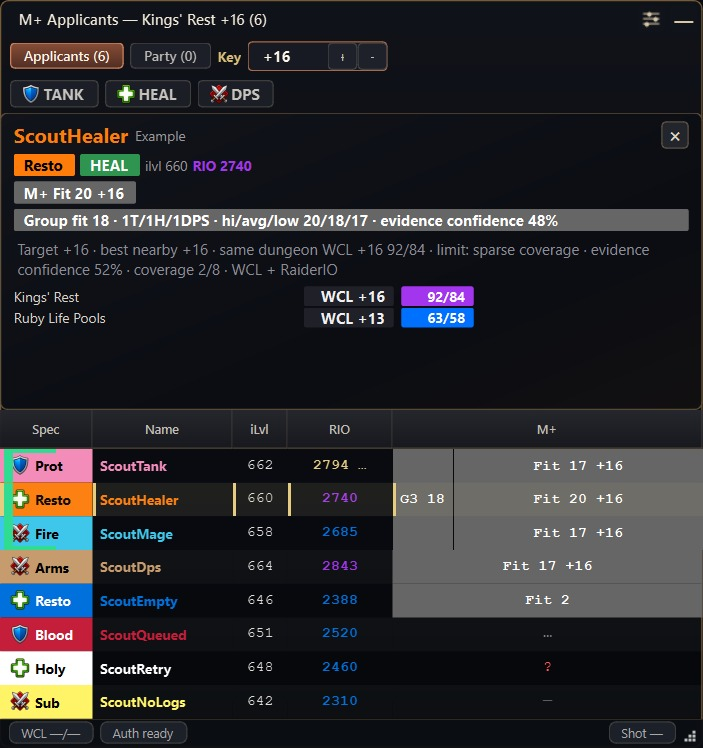
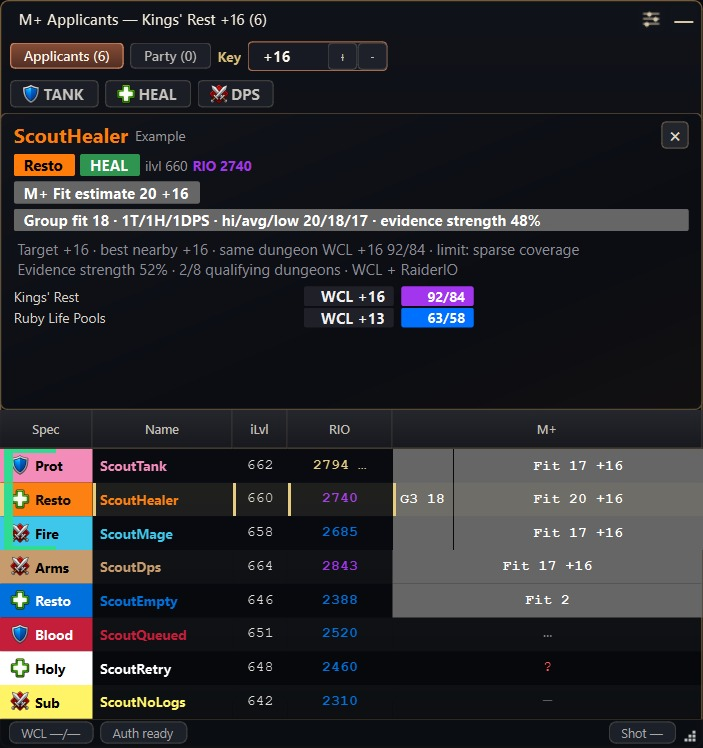
fix: refresh roster evidence and validate keystone providers

diff --git a/tests/test_transport_contract.py b/tests/test_transport_contract.py
@@ -63,6 +63,9 @@ LUA_ROSTER_UNKNOWN_IDENTITY_RECOVERY_CHECK = (
 LUA_ROSTER_INSPECT_REJOIN_CHECK = (
     REPO_ROOT / "tests" / "lua" / "check_roster_inspect_rejoin.lua"
 )
+LUA_ROSTER_ILVL_REFRESH_CHECK = (
+    REPO_ROOT / "tests" / "lua" / "check_roster_ilvl_refresh.lua"
+)
 LUA_LEADER_KEY_REFRESH_CHECK = (
     REPO_ROOT / "tests" / "lua" / "check_leader_keystone_refresh.lua"
 )
@@ -1601,7 +1604,6 @@ def test_leader_keystone_soft_dep_uses_libkeystone_party_protocol():
     )
     events_body = _slice_between(source, "local EVENT_HANDLERS = {", "for event in pairs")
 
-    assert 'pcall(libStub, "LibKeystone", true)' in leader_body
     assert "lib.Register(" in leader_body
     assert 'type(lib.Request) == "function"' in leader_body
     assert "leaderKeystoneLib = nil" in source
@@ -1746,10 +1748,12 @@ def test_libkeystone_callback_registration_reselects_late_external_provider():
     assert cancel_retry_idx < select_idx
 
 
-def test_libkeystone_provider_ownership_in_lua51(pytestconfig):
+@pytest.mark.parametrize("provider_kind", ["table", "function"])
+def test_libkeystone_provider_ownership_in_lua51(pytestconfig, provider_kind):
     output = _run_lua_script(
         pytestconfig,
         LUA_LIBKEYSTONE_PROVIDER_OWNERSHIP_CHECK,
+        provider_kind,
     ).strip()
 
     assert output == "ok libkeystone-provider-ownership"
@@ -2823,7 +2827,7 @@ def test_roster_spec_resolution_requests_inspect_when_spec_is_unknown():
     assert inspect_idx < request_idx < fallback_idx
 
 
-def test_roster_item_level_uses_inspect_cache_for_non_self_units():
+def test_roster_item_level_uses_cache_after_fresh_read_before_requesting_inspect():
     source = _lua_source()
     item_level_body = _slice_between(
         source,
@@ -2858,7 +2862,7 @@ def test_roster_item_level_uses_inspect_cache_for_non_self_units():
         in request_body
     )
     assert "entryCreationKeyState.RosterUnitHasResolvedSpec" not in source
-    assert cache_idx < read_idx < request_idx
+    assert read_idx < cache_idx < request_idx
 
 
 def test_inspect_ready_marks_roster_dirty_after_caching_spec():
@@ -5038,6 +5042,21 @@ def test_roster_member_rejoin_refreshes_cached_payload_identity(pytestconfig, mo
 
     assert (before.spec_id, before.ilvl, before.role) == (256, 704, 1)
     assert (after.spec_id, after.ilvl, after.role) == (258, 799, 2)
+
+
+@pytest.mark.requires_companion
+def test_roster_item_level_refresh_preserves_last_clean_during_unavailable_reads(pytestconfig):
+    output = _run_lua_script(pytestconfig, LUA_ROSTER_ILVL_REFRESH_CHECK)
+    parse_payload = _companion_payload_parser(pytestconfig)
+    members = []
+    for line in output.splitlines():
+        snapshot, error = parse_payload(bytes.fromhex(line))
+        assert error is None
+        assert snapshot is not None
+        members.append(next(member for member in snapshot.roster if member.name == "Friend-Realm"))
+
+    assert [member.ilvl for member in members] == [704, 799, 691, 691, 691, 691, 691, 711]
+    assert all((member.spec_id, member.role) == (63, 2) for member in members)
 
 
 @pytest.mark.requires_companion

diff --git a/CHANGELOG.md b/CHANGELOG.md
@@ -2,6 +2,29 @@
 
 ## Unreleased
 
+## 0.9.14 - 05-Sep-2026 - Clearer key scouting
+
+### Improved
+
+- Paired with ApplicantScout Companion `0.15.0`, with more accurate Mythic+
+  evidence scoring and clearer applicant details while keeping familiar colors.
+- Party item level now uses fresh readable equipment data, retaining the last
+  known value when inspection data is temporarily unavailable.
+
+### Fixed
+
+- Recognize standard LibStub libraries so an external LibKeystone provider is
+  used correctly, including when it loads later.
+- A same-name player from another realm can no longer replace or clear the
+  group leader's key information.
+
+### Notes
+
+- The paired companion also improves first-run setup and preserves applicant
+  state correctly through rapid listing or character changes.
+- APS1 payload compatibility and combat/Mythic+ background-work suppression
+  are unchanged.
+
 ## 0.9.13 - 02-Sep-2026 - Companion security update
 
 ### Improved

diff --git a/README.md b/README.md
@@ -82,6 +82,14 @@ folder name for WoW.
 - Current party/raid roster context after invites or after joining a group.
 - Optional playstyle and Auto Hi controls for in-game quality-of-life.
 
+Mythic+ Fit estimates how the available evidence matches the target key; it is
+not a success probability or a Warcraft Logs percentile. The companion combines
+named RaiderIO and WCL evidence once per dungeon and shows key experience
+separately from evidence strength and dungeon coverage. Existing percentile
+colours remain the visual scale.
+M+ WCL values measure damage for every role, including tanks and healers; they
+do not measure healing, survival, or utility.
+
 ## How It Works
 
 WoW addons cannot query Warcraft Logs directly from inside the game client.
